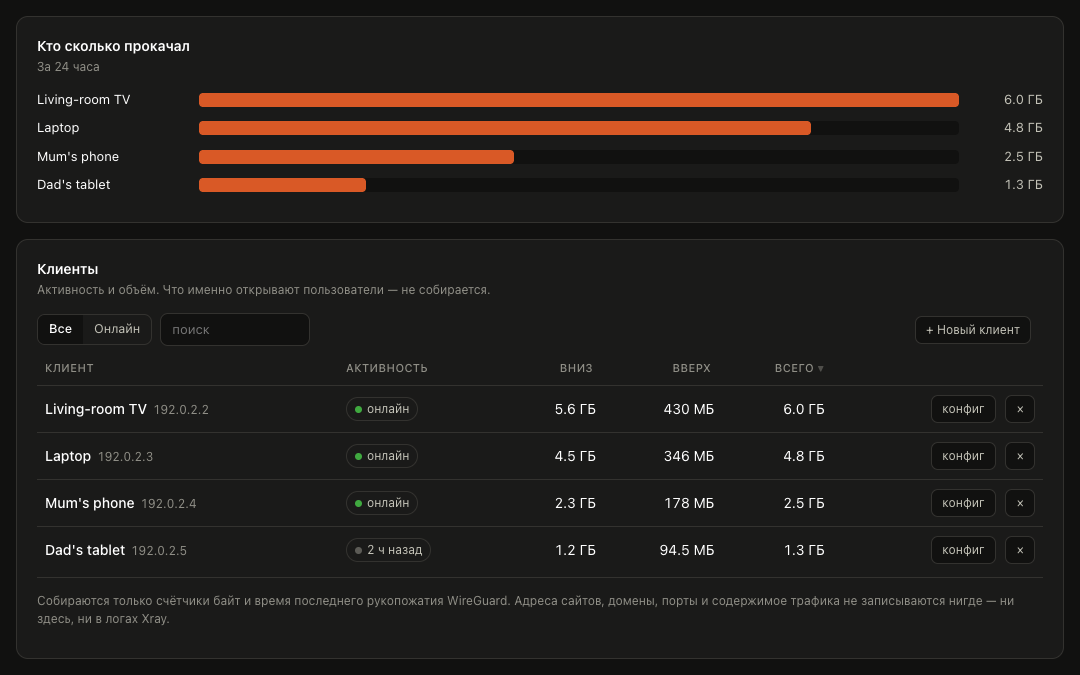
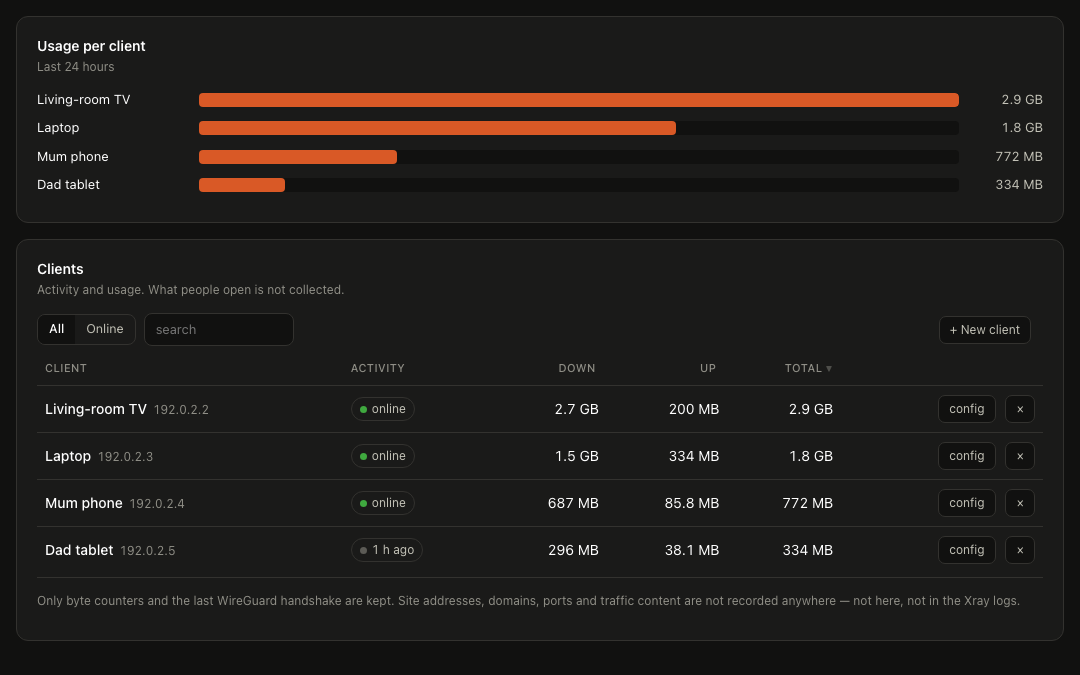
feat(landing): show the English panel again and drop the "in Russian" lines (#103)
Re-render the four panel images from the unmodified dashboard.html of
homeport-skill 0.6.0 (the English panel): same /api/data stub, pinned clock,
four made-up devices on 192.0.2.2-5, clip 0,766,1080,675; two names lost the
apostrophes the panel now rejects. The figure is back under the decision cards
with the caption "The real panel." (rules scoped to figure.panel, as the free
card's tab panels share the class); the two "in Russian" lines are gone.

diff --git a/docs/index.html b/docs/index.html
@@ -97,7 +97,7 @@ html{scroll-padding-top:84px}
   :root:not([data-theme="light"]) .theme .moon{display:block}
 }
 
-/* hero: a short intro, then the two decision cards */
+/* hero: a short intro, then the two decision cards, then the panel picture */
 .hero{padding-block:16px 26px;display:flex;flex-direction:column;gap:16px}
 .intro{display:grid;grid-template-columns:1.15fr .85fr;gap:12px 44px;align-items:end}
 .hero h1{font-size:clamp(34px,3.6vw,46px)}
@@ -210,7 +210,22 @@ html{scroll-padding-top:84px}
 .rows dt{font-family:var(--mono);font-size:11.5px;letter-spacing:.06em;text-transform:uppercase;color:var(--mute);padding-top:3px}
 .rows dd{margin:0;font-size:14.5px;color:var(--ink-2);line-height:1.5}
 .back{margin:14px 0 0;font-size:14px;font-weight:600}
-/* captions that say what a picture is: the illustrated agent chat */
+/* the panel picture sits under the cards: a render of the real panel (sample data), framed so it sits on either theme.
+   The frame is a ring, not a border, so the 1080px render shows 1:1 at desktop width.
+   figure.panel, not .panel: the free card's tab panels share the class name, and these rules are for the picture only. */
+figure.panel{margin:0;display:flex;flex-direction:column;gap:10px}
+figure.panel picture{display:block;border-radius:16px;overflow:hidden;box-shadow:0 0 0 1px var(--line-2),var(--shadow)}
+figure.panel img{display:block;width:100%;height:auto}
+/* two renders, one per theme; they switch on the same rule as the tokens above (system, unless the toggle set data-theme).
+   The hidden one is display:none, so it stays out of the accessibility tree and, being lazy, is never fetched. */
+figure.panel .pic-dark{display:none}
+:root[data-theme="dark"] figure.panel .pic-light{display:none}
+:root[data-theme="dark"] figure.panel .pic-dark{display:block}
+@media (prefers-color-scheme:dark){
+  :root:not([data-theme="light"]) figure.panel .pic-light{display:none}
+  :root:not([data-theme="light"]) figure.panel .pic-dark{display:block}
+}
+/* captions that say what a picture is: the panel render, the illustrated agent chat */
 .cap{margin:0;font-size:13.5px;line-height:1.5;color:var(--ink-2)}
 
 /* how — four steps */
@@ -294,7 +309,7 @@ footer a{color:var(--ink-2)}
   .claim{grid-template-columns:1fr;gap:4px}
   .dfm{padding:22px 16px}
   .bub{max-width:92%}
-  .chat{display:none}
+  figure.panel,.chat{display:none}
   .top{padding-block:10px}
   .copy{min-height:44px}
   .tab{min-height:44px}
@@ -388,7 +403,7 @@ footer a{color:var(--ink-2)}
           <div><dt data-i18n="path.k.you">You</dt><dd data-i18n="path.paid.you">a hosting account and <a href="#card">card</a>, a domain, invite Homeport to it, scan the QR on each device, remove the invite at the end</dd></div>
           <div><dt data-i18n="path.k.refund">Refund</dt><dd data-i18n="path.paid.refund">automatic if <a href="#check">the check</a> fails; otherwise on request within 14 days</dd></div>
           <div><dt data-i18n="path.k.covers">Covers</dt><dd data-i18n="path.paid.covers">the setup, not <a href="#limit">your network</a></dd></div>
-          <div><dt data-i18n="path.k.launch">At launch</dt><dd data-i18n="path.paid.launch"><a href="https://github.com/antongavrilov88/homeport-skill/blob/main/references/provisioning.md" target="_blank" rel="noopener">DigitalOcean</a> only, panel buttons in Russian</dd></div>
+          <div><dt data-i18n="path.k.launch">At launch</dt><dd data-i18n="path.paid.launch"><a href="https://github.com/antongavrilov88/homeport-skill/blob/main/references/provisioning.md" target="_blank" rel="noopener">DigitalOcean</a> only</dd></div>
         </dl>
       </div>
       <a class="btn ghost" href="https://t.me/burrow_vpn_bot" target="_blank" rel="noopener"><span data-i18n="path.paid.btn">Join the waitlist</span> <small>Telegram</small></a>
@@ -443,6 +458,17 @@ footer a{color:var(--ink-2)}
     </div>
   </div>
 
+  <figure class="panel">
+    <picture class="pic-light">
+      <source type="image/webp" srcset="panel.webp 2x">
+      <img src="panel.png" width="1080" height="675" loading="lazy" decoding="async" alt="The Homeport panel: clients, traffic per device, a New client button">
+    </picture>
+    <picture class="pic-dark">
+      <source type="image/webp" srcset="panel-dark.webp 2x">
+      <img src="panel-dark.png" width="1080" height="675" loading="lazy" decoding="async" alt="The Homeport panel: clients, traffic per device, a New client button">
+    </picture>
+    <figcaption class="cap" data-i18n="panel.cap">The real panel.</figcaption>
+  </figure>
 </section>
 
 <!-- 2 · how it works -->
@@ -477,7 +503,7 @@ footer a{color:var(--ink-2)}
       <dl>
         <div><dt data-i18n="spec.k1">Cover</dt><dd data-i18n="spec.v1">Xray serving VLESS + XHTTP + REALITY on 443/tcp, behind a real site on your own domain with a real certificate. A prober that knocks gets the site — because it is the site. It protects the two-server link and phones using a VLESS app. On one server, WireGuard devices connect as plain WireGuard.</dd></div>
         <div><dt data-i18n="spec.k2">Devices</dt><dd data-i18n="spec.v2">Plain WireGuard, official apps. Nothing custom to install on a phone or a laptop.</dd></div>
-        <div><dt data-i18n="spec.k3">Panel</dt><dd data-i18n="spec.v3">A small web panel on the server: add a device, get a QR, see bytes and last-seen. The panel and push alerts are in Russian in this version; everything Claude says to you, and the handout you pass on, are in your language.</dd></div>
+        <div><dt data-i18n="spec.k3">Panel</dt><dd data-i18n="spec.v3">A small web panel on the server: add a device, get a QR, see bytes and last-seen. The panel and push alerts are in English; everything your agent says to you, and the handout you pass on, are in your language.</dd></div>
         <div><dt data-i18n="spec.k4">Watchdog</dt><dd data-i18n="spec.v4">A service that checks the tunnel every 30 seconds, restarts what it can and alerts your phone. On two servers it also moves everyone to a spare route.</dd></div>
         <div><dt data-i18n="spec.k5">Split routing</dt><dd data-i18n="spec.v5">Two-server layout only: an nftables set decides who goes through the tunnel, and a domain list you edit leaves directly from the relay. Seeded with the payment networks that usually object — add your own bank.</dd></div>
         <div><dt data-i18n="spec.k6">Layouts</dt><dd data-i18n="spec.v6">One server abroad by default, or a two-machine relay when devices sit behind heavy filtering. Same installers either way.</dd></div>

diff --git a/CHANGELOG.md b/CHANGELOG.md
@@ -6,6 +6,7 @@
 
 ## Unreleased
 
+- feat(landing): the panel picture is back under the decision cards, rendered from the English panel (homeport-skill 0.6.0): the unmodified `dashboard.html`, the same four made-up devices on documentation-range addresses, a light and a dark render that follow the page theme, captioned "The real panel."; phones still never load it. Two device names lost their apostrophes ("Mum phone", "Dad tablet") because the panel now rejects them. The paid card's "At launch" row is "DigitalOcean only", and the spec's Panel row says the panel and push alerts are in English while everything your agent says to you, and the handout, are in your language; the word "Russian" is off the page. (#103)
 - fix(landing): the free path is for any AI coding agent; Claude Code is the tested one. The meta, og and twitter descriptions say "a free, open-source skill for AI coding agents", the lede "a free skill for your AI coding agent". The free card says it runs in an AI coding agent on your computer, tested with Claude Code, while Codex CLI, Gemini CLI and Cursor read the same skill format but haven't been tested yet, and asks "No coding agent?" instead of "No Claude Code?"; the "Claude plan with Claude Code" clause is gone. The install block is now two tabs: "Claude Code (tested)" keeps the plugin commands, the start line and the terminal, update and clone disclosure; "Other agents (untested)" has a `git clone` into your agent's skills folder, the Codex CLI folder and a link to open an issue. The tabs work with a click, ArrowLeft and ArrowRight, Home and End. Where any agent is meant, "Claude" is now "your agent": the phone note, How step 1 and its note, and step 3. The free card is taller and both card buttons sit lower at 1280×800, because it now carries the tested/untested sentence and the tab strip; the tab strip and the disclosure summary are 32 px tall on desktop and 44 px on phones. (#105)
 - fix(landing): the paid path no longer says Homeport buys the domain. The comparison's "What Homeport does" drops the domain, and "Your part" adds a domain you buy (usually from about $10 a year; renewals can cost more) and point at DigitalOcean; the paid card's "You" row adds a domain. How step 2 no longer says to close the laptop: the server installs itself and your agent finishes the checks when you're back. The bridge no longer presumes the reader said "not tonight" and lists the same steps as "Your part", apart from the QR and removing the invite. (#104)
 - docs(repo): `SECURITY.md` is about the website: what is in scope here (a broken or malicious link, content or script injection, anything that leaks visitor data), reported privately through GitHub's private vulnerability reporting (Security → Report a vulnerability); vulnerabilities in the skill and the installers go to homeport-skill's private report page. The maintainer's personal Telegram channel is no longer a security contact in `SECURITY.md` or the issue chooser — a channel can't take private messages; the chooser links to both private report pages instead. The label seed `.github/labels.json` drops `area:skill` and `area:installer` and describes `docs` as this repo's docs; `.github/backlog.json` drops the skill items (release tag, SKILL.md translation, Hetzner provisioning, MCP tool surface). Both are seed files: live labels and issues are unchanged. (#101)
